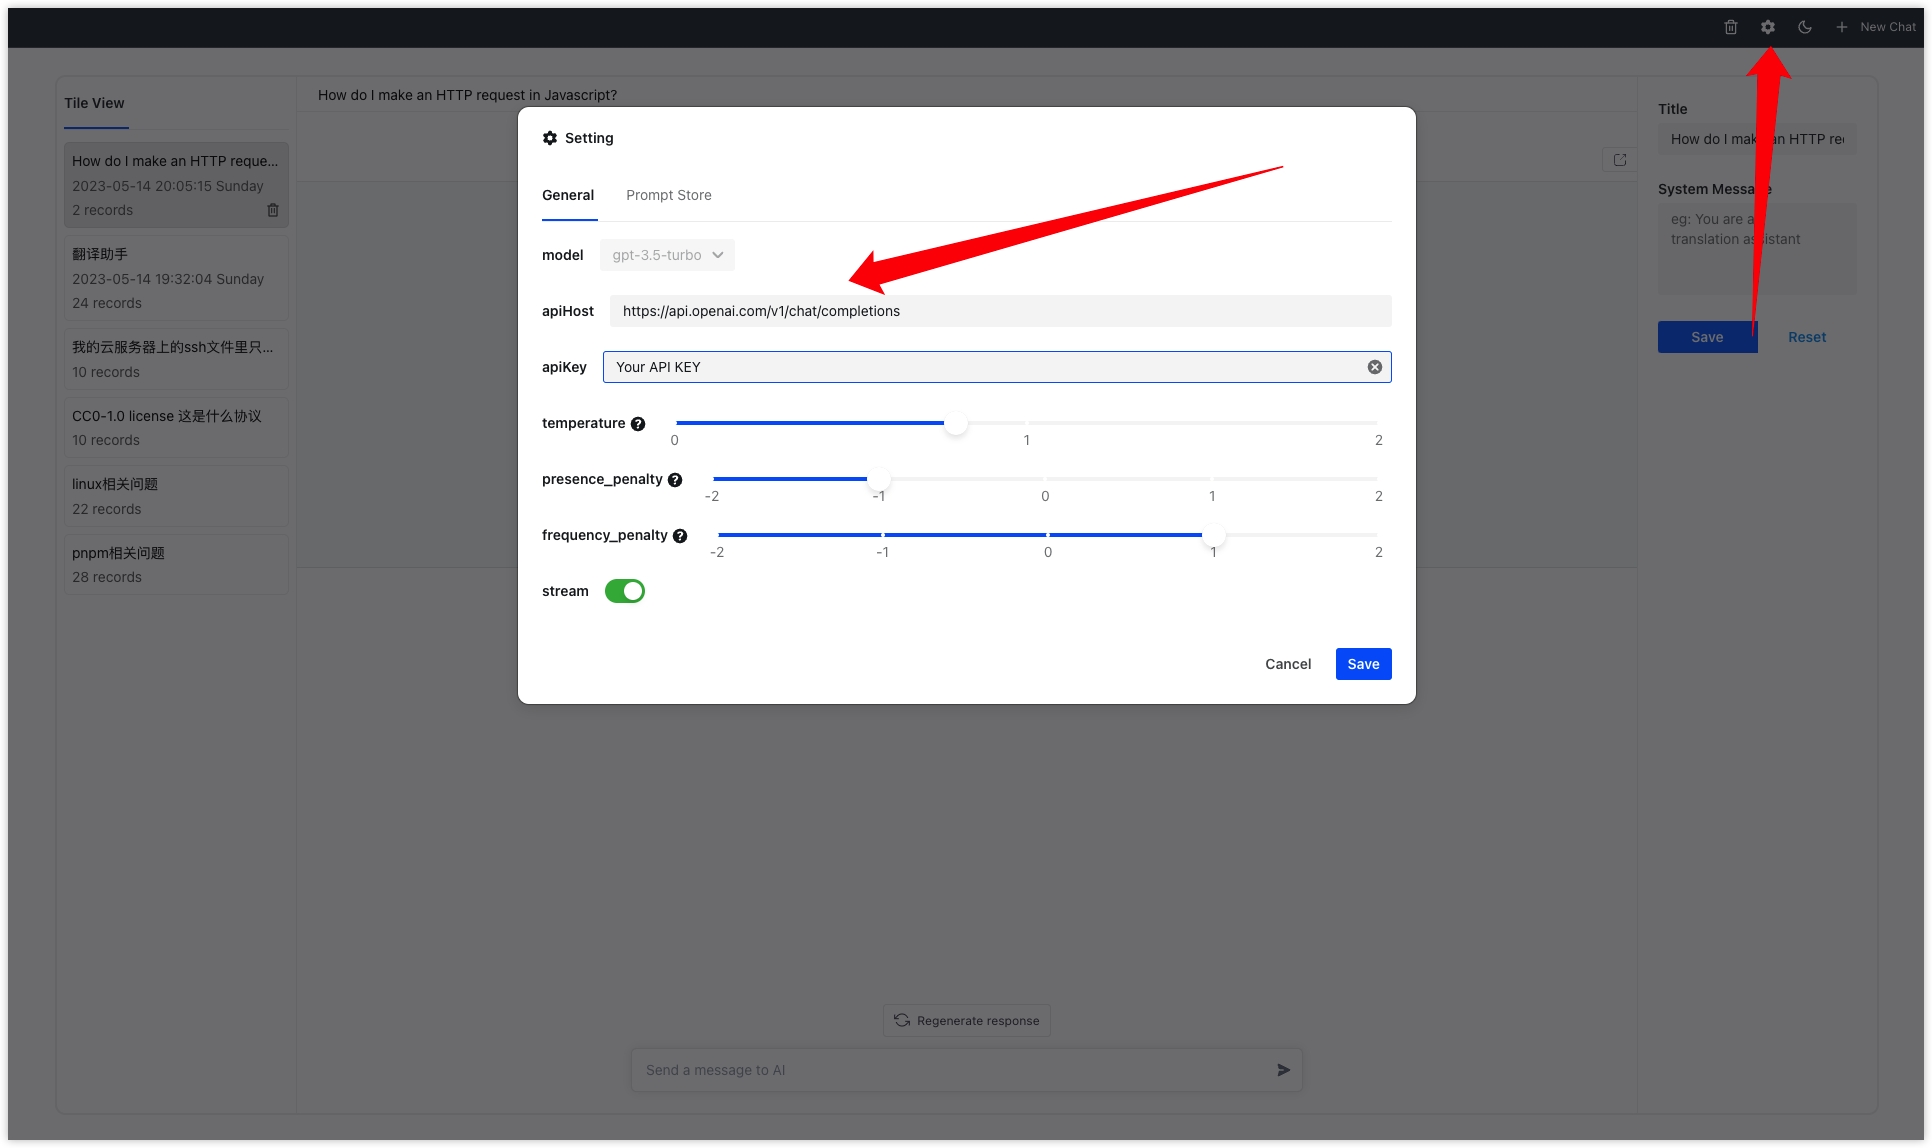
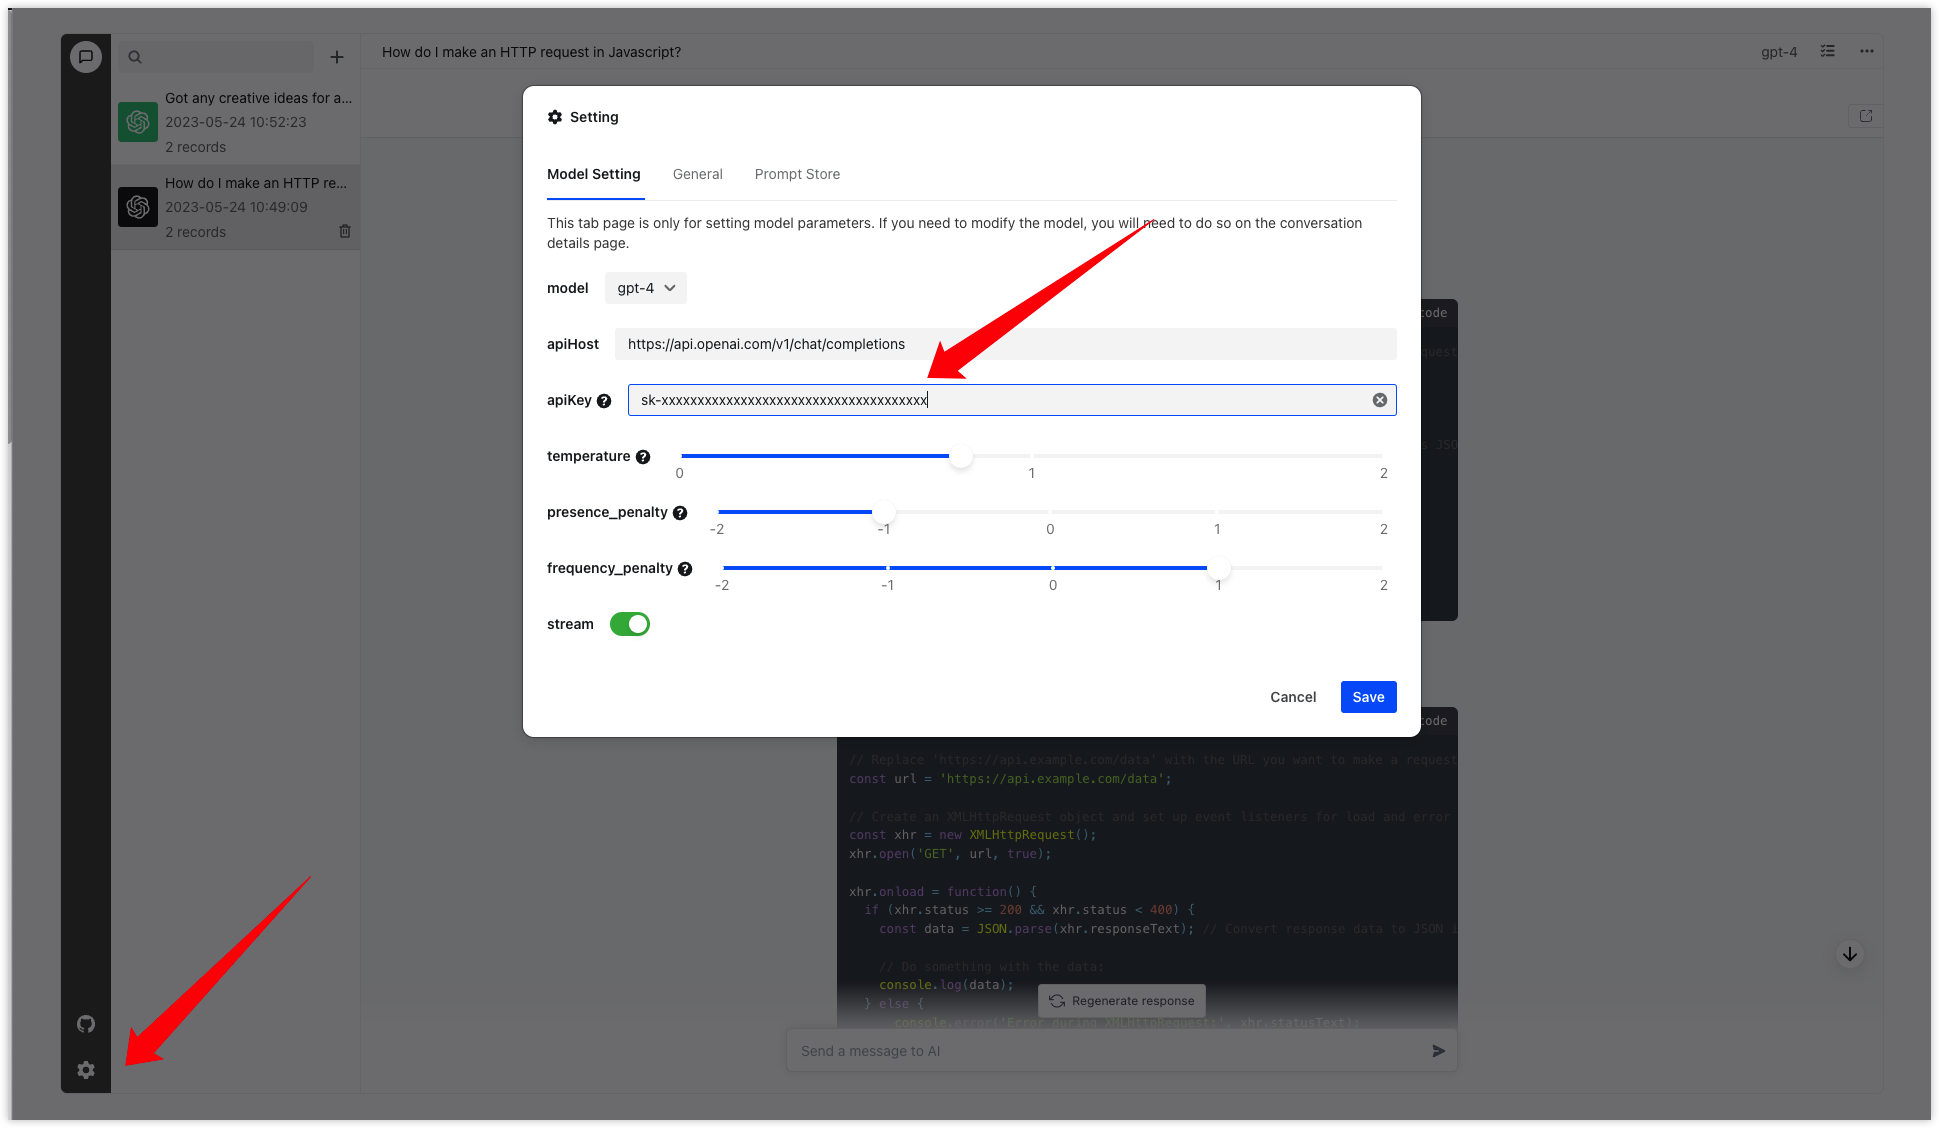
upd: update README

diff --git a/README.en.md b/README.en.md
@@ -42,6 +42,22 @@ This project comes with a built-in server for local development and testing, and
 Want to use your own API? No problem, the client can connect to the server of this project as well as any official standard API.
 
 We recommend connecting to [AIOK](https://key.aios.chat), which is free for the first registration and provides 100,000 points for free.
+
+**The following models are currently supported:**
+
+| Model          | Description                                                                                       | Max Tokens | Training Data      | Pros                           | Cons                                         |
+| -------------- | ------------------------------------------------------------------------------------------------- | ----------- | -------------------------| ------------------------------| --------------------------------------------|
+| gpt-3.5-turbo  | One of the most capable GPT-3.5 models, optimized for chat at 1/10th the cost of text-davinci-003.| 4096 tokens  | Up to Sep 2021      | Faster response, slower token usage  	  	 	| Slightly less intelligent than GPT-4          |
+| gpt4          	| More capable than any GPT-3.5 model, able to do more complex tasks and optimized for chat.       	| 8192 tokens 	| Up to Sep 2021  		| More intelligent, more accurate problem solving   	 	| Slower response time and higher token usage compared to GPT-3.5 |
+
+You can choose the model for each conversation on the conversation settings page or when creating a new conversation.
+
+<img src="docs/chat-config.png" />
+
+For the GPT4 model, it is important to select it in the configuration page and enter an API key available for that model.
+
+<img src="docs/setting.jpeg" />
+
 ## Getting Started
 Node.js v18.x.0 is recommended.
 
@@ -53,6 +69,8 @@ npm run inst # Installation
 npm run dev # Running
 
 npm run dev:env # Generating environment variable files during runtime
+
+npm run dev:vite # Run only the frontend if you don't want to use the local API.
 ```
 
 > After using the ```npm run dev:env``` command, if you need a local server, you need to fill in the correct and available API KEY in the .env.development file generated under the /api directory.
@@ -85,6 +103,9 @@ VITE_DEFAULT_BOTTOM_TIPS=''
 
 # API_HOST
 VITE_API_HOST='http://localhost:3000/aios-chat'
+
+# GPT4 API_HOST
+VITE_API_HOST_GPT4='https://api.openai.com/v1/chat/completions'
 
 # Whether to return only text content, which means whether the stream needs to be parsed by the frontend.
 VITE_ONLY_TEXT=true
@@ -119,6 +140,7 @@ To be updated later.
 - Share current conversation with one click
 - Streaming transmission
 - Dark mode
+- Supports GPT-4
 
 ## Upcoming Features
 - [x] github action（eslint）
@@ -131,14 +153,14 @@ To be updated later.
 - [x] Material modification of openai model (3.5, 3.0) and modification of interface parameters temperature, frequency_penalty, presence_penalty
 - [ ] Multi-language support
 - [ ] One-click deployment document
-- [ ] GitHub pages automatic deployment
 - [ ] docker-compose files
 
 ## FAQ
 
 Q: Why is it that after using the official interface, a large character string is returned without being parsed?
 
-A: Because the ```VITE_ONLY_TEXT``` in the environment variables is set to true by default, there is no parsing on the client side. Change it to false or delete it.
+A: ~~Because the ```VITE_ONLY_TEXT``` in the environment variables is set to true by default, there is no parsing on the client side. Change it to false or delete it.~~
+> The default value is now set to false.
 
 ## License
 

diff --git a/README.md b/README.md
@@ -42,6 +42,21 @@
 想使用自己的API？也可以，客户端可接入本项目的服务端以及任何符合官方标准的api。
 
 推荐接入[AIOK](https://key.aios.chat)，国内免代理，首次注册免费赠送 100,000 points.
+
+**目前支持以下几个模型**
+| 模型 | 描述 | 最大上下文 | 训练数据截止时间| 优点 | 缺点 |
+| ---- | ---- | ---- | ---- | ---- | ---- |
+| gpt-3.5-turbo  | 最具有能力的GPT-3.5模型之一，以1/10的价格进行了针对聊天的优化，远低于text-davinci-003| 4096tokens   | 截至 2021 年 9 月 | 响应速度更快，tokens消耗速率更慢 | 智能程度比起gpt4稍逊一筹 |
+| gpt4 | 比任何GPT-3.5模型更具有能力，能够执行更复杂的任务，并且针对聊天进行了优化   | 8,192tokens   | 截至 2021 年 9 月 | 更加智能，更精确的解决问题 | 响应速度较慢, tokens消耗速率对比3.5要多一些 |
+
+你可以在每个对话的设置页面进行模型选择，或者在新建对话的时候选择你要想对话的模型
+
+<img src="docs/chat-config.png" />
+
+对于gpt4模型，需要注意的是，需要在配置页面选择gpt4，然后输入gpt4模型可用的API KEY
+
+<img src="docs/setting.jpeg" />
+
 ## 开始使用
 推荐采用```node 18.x.0```
 
@@ -54,6 +69,8 @@ npm run inst # 安装
 npm run dev # 运行
 
 npm run dev:env # 运行时生成环境变量文件
+
+npm run dev:vite # 只运行前端，如果你不想使用本地api
 ```
 
 > 使用```npm run dev:env```命令后，如果需要本地服务端，则需要在/api文件下生成的.env.development文件中填入正确可用的API KEY
@@ -86,6 +103,9 @@ VITE_DEFAULT_BOTTOM_TIPS=''
 
 # API_HOST
 VITE_API_HOST='http://localhost:3000/aios-chat'
+
+# GPT4 API_HOST
+VITE_API_HOST_GPT4='https://api.openai.com/v1/chat/completions'
 
 # 是否只返回文字内容，它意味着stream流是否需要前端解析。
 VITE_ONLY_TEXT=true
@@ -120,6 +140,7 @@ VITE_INFO=''
 - 可一键分享当前会话
 - 流式传输
 - 暗夜模式
+- 支持gpt4
 
 ## 后续要做的功能
 - [x] github action（eslint）
@@ -132,14 +153,14 @@ VITE_INFO=''
 - [x] 可修改openai的模型（3.5、3.0）可修改接口参数temperature、frequency_penalty、presence_penalty
 - [ ] 多语言支持
 - [ ] 一键部署文档
-- [ ] GitHub pages自动部署
 - [ ] docker-compose编写
 
 ## 常见问题
 
 Q:为什么使用官方接口后，返回的是一大串字符，没有解析？
 
-A:因为环境变量里的```VITE_ONLY_TEXT```默认为true，没有在客户端解析，将它改为false或者删除即可
+A:~~因为环境变量里的```VITE_ONLY_TEXT```默认为true，没有在客户端解析，将它改为false或者删除即可~~
+> 现在默认为false了
 ## License
 
 MIT License © [AIOS-club](./LICENSE)
